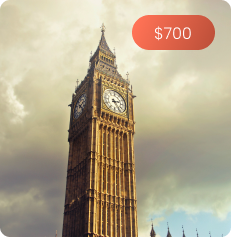
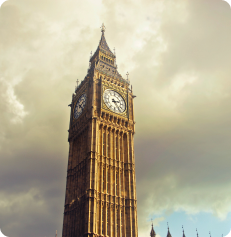
[PR-7] - Added responsive desing

Changed region(s): [[0.5455, 0.0591, 0.9394, 0.2363]]

diff --git a/styles/index.css b/styles/index.css
@@ -394,12 +394,12 @@
 
 /* Sightseeing Section Start */
 .homepage-sightseeing-container {
-  padding: 150px;
+  padding: 100px 60px;
   display: flex;
 }
 
 .europe-sightseeing-info {
-  max-width: 70%;
+  max-width: 60%;
 }
 
 .sightseeing-subtitle {
@@ -456,8 +456,9 @@
 }
 
 .europe-absolute-img img{
-  position: relative;
+  position: absolute;
   z-index: -1;
+  right: 50px;
 }
 /* Sightseeing Section End */
 
@@ -835,6 +836,9 @@ footer {
   .tt-countrys {
     flex-wrap: wrap;
   }
+  .europe-absolute-img img {
+    display: none;
+  }
 }
 
 @media screen and (max-width: 1000px) {
@@ -859,6 +863,23 @@ footer {
     padding: 100px 10px;
   }
 }
+
+@media screen and (max-width: 770px) {
+  .homepage-sightseeing-container {
+    padding: 20px 10px;
+  }
+  .europe-sightseeing-info {
+    max-width: 100%;
+    text-align: center;
+  }
+  .europe-sightseeing-locations {
+    justify-content: center;
+    padding: 20px 0;
+  }
+  .europe-sightseeing-btn {
+    width: auto;
+  }
+} 
 
 @media screen and (max-width: 650px) {
   .line-img {

diff --git a/index.html b/index.html
@@ -347,16 +347,20 @@
         </div>
         <div class="europe-sightseeing-locations">
           <div class="europe-location">
-            <img src="images/Destination1.png" alt="England">
+            <img src="images/destination1.png" alt="England">
+            <h5>$700</h5>
           </div>
           <div class="europe-location">
-            <img src="images/Destination2.png" alt="Norway">
+            <img src="images/destination2.png" alt="Norway">
+            <h5>$800</h5>
           </div>
           <div class="europe-location">
-            <img src="images/Destination3.png" alt="Italy">
+            <img src="images/destination3.png" alt="Italy">
+            <h5>$500</h5>
           </div>
           <div class="europe-location">
-            <img src="images/Destination4.png" alt="France">
+            <img src="images/destination4.png" alt="France">
+            <h5>$400</h5>
           </div>
         </div>
       </div>
